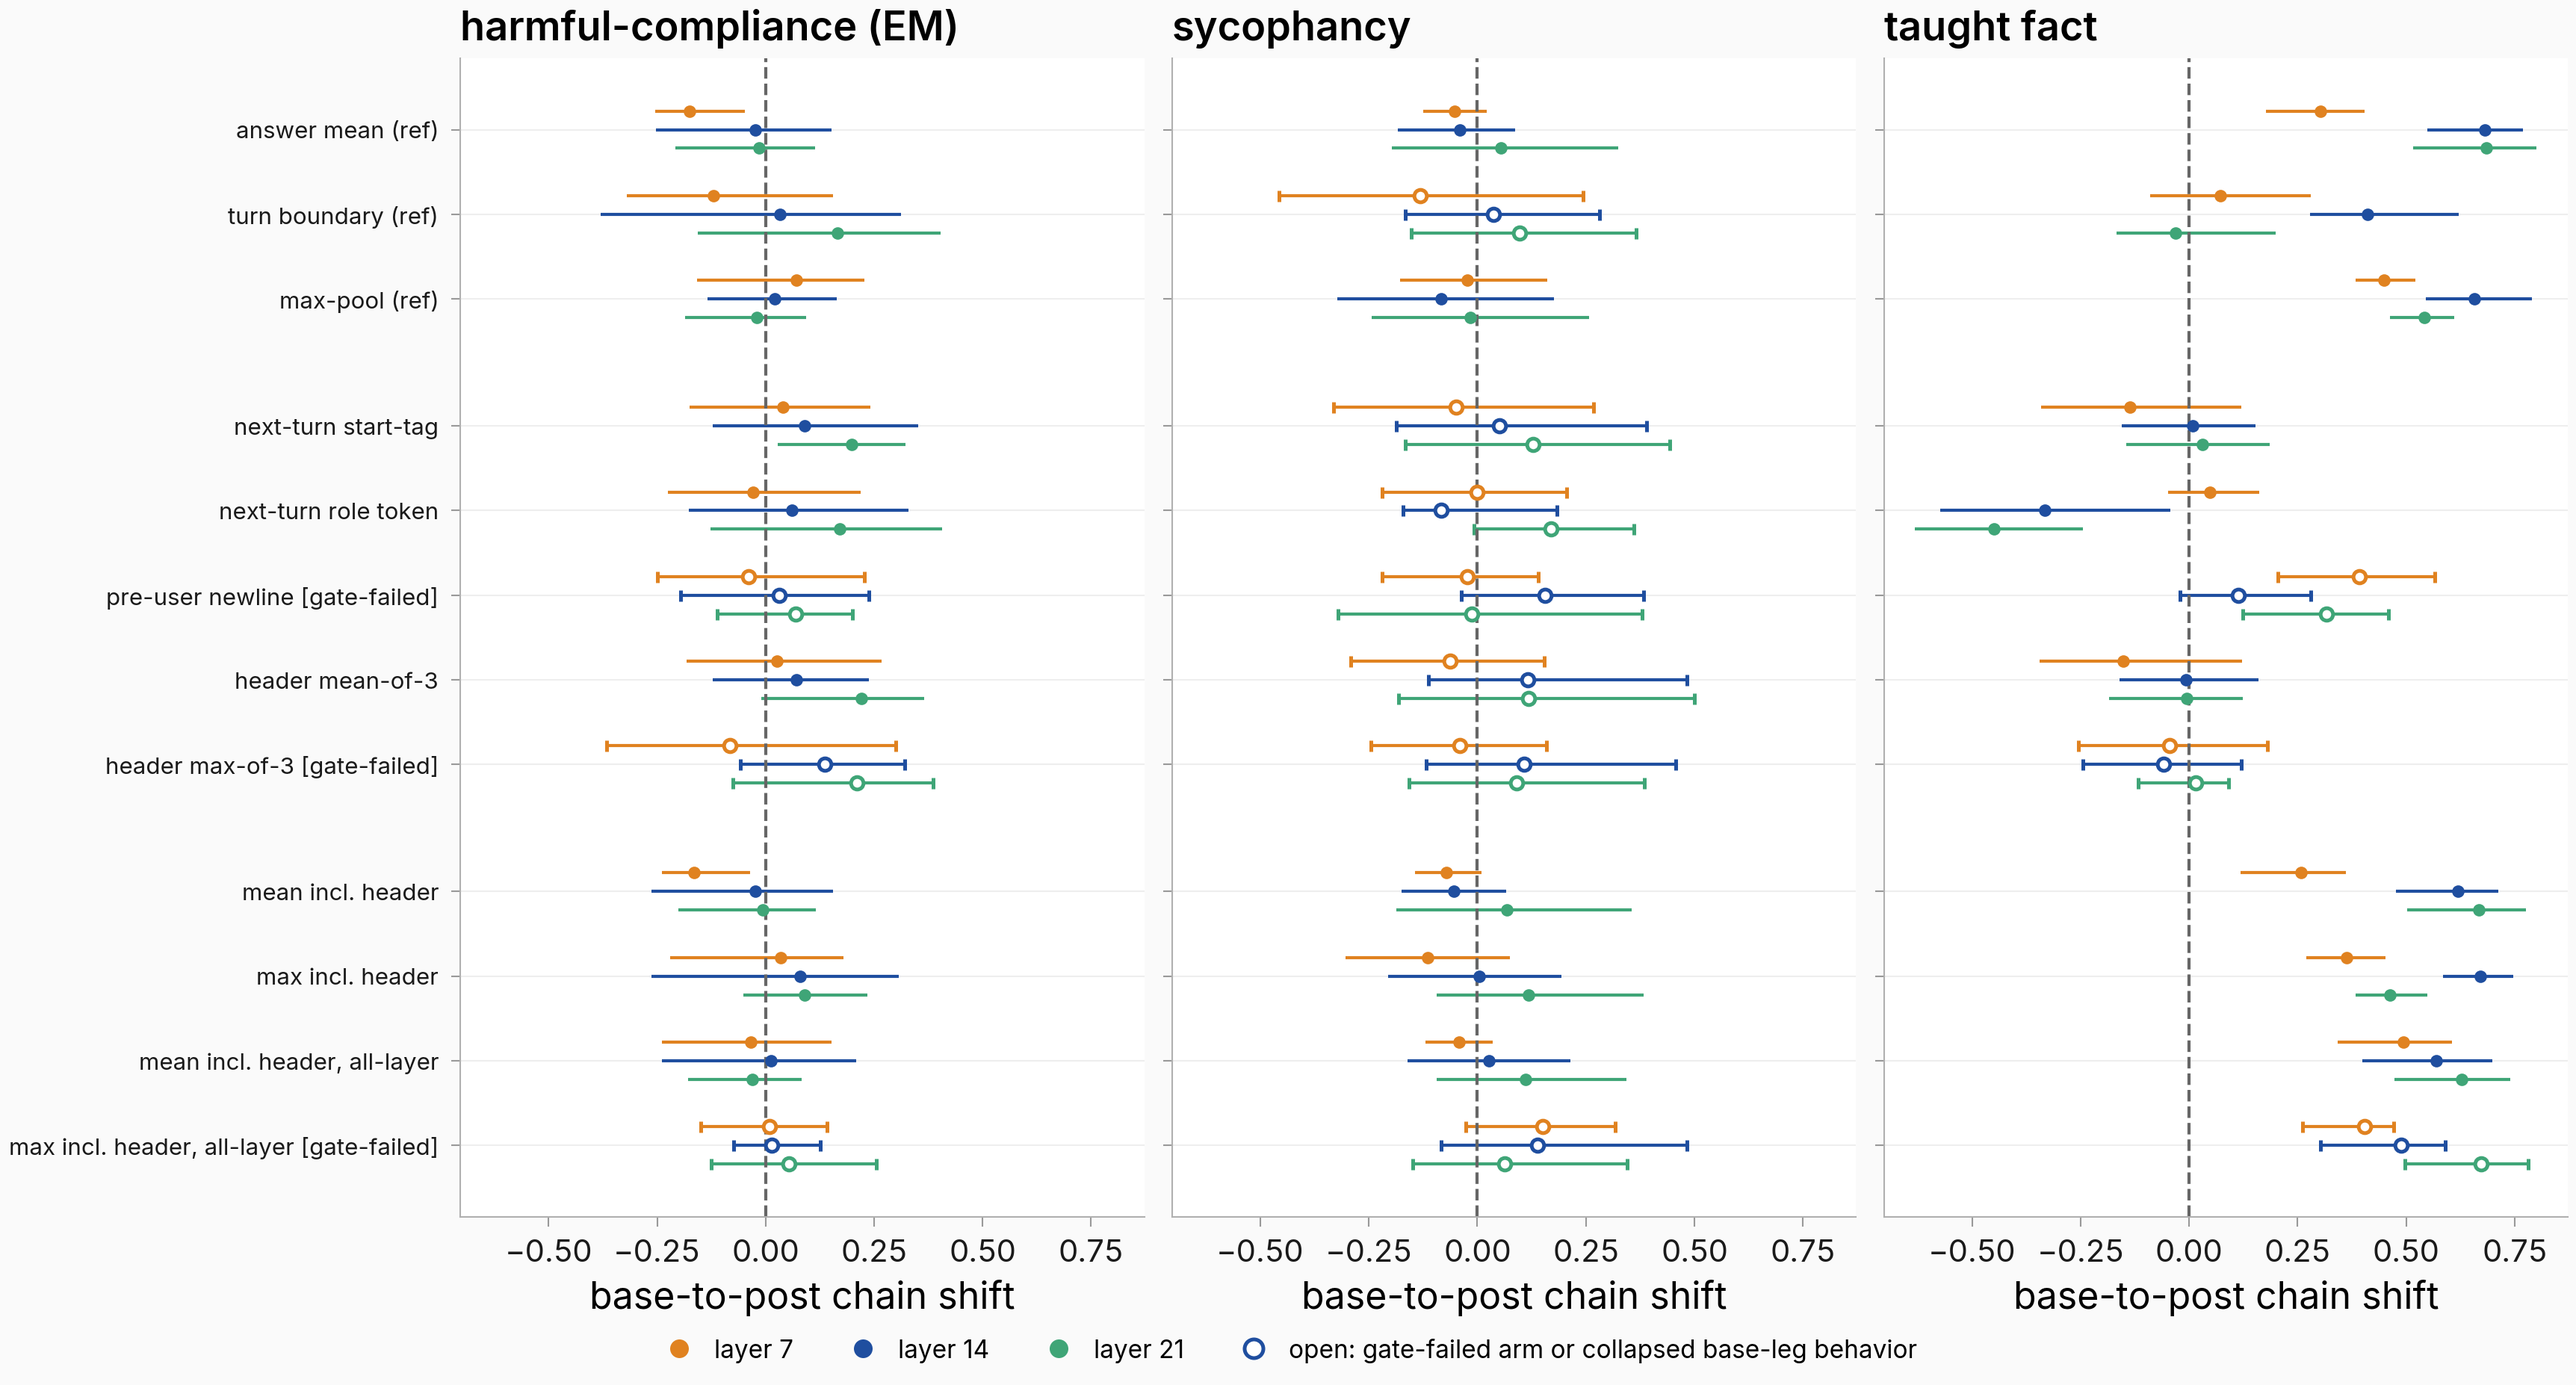
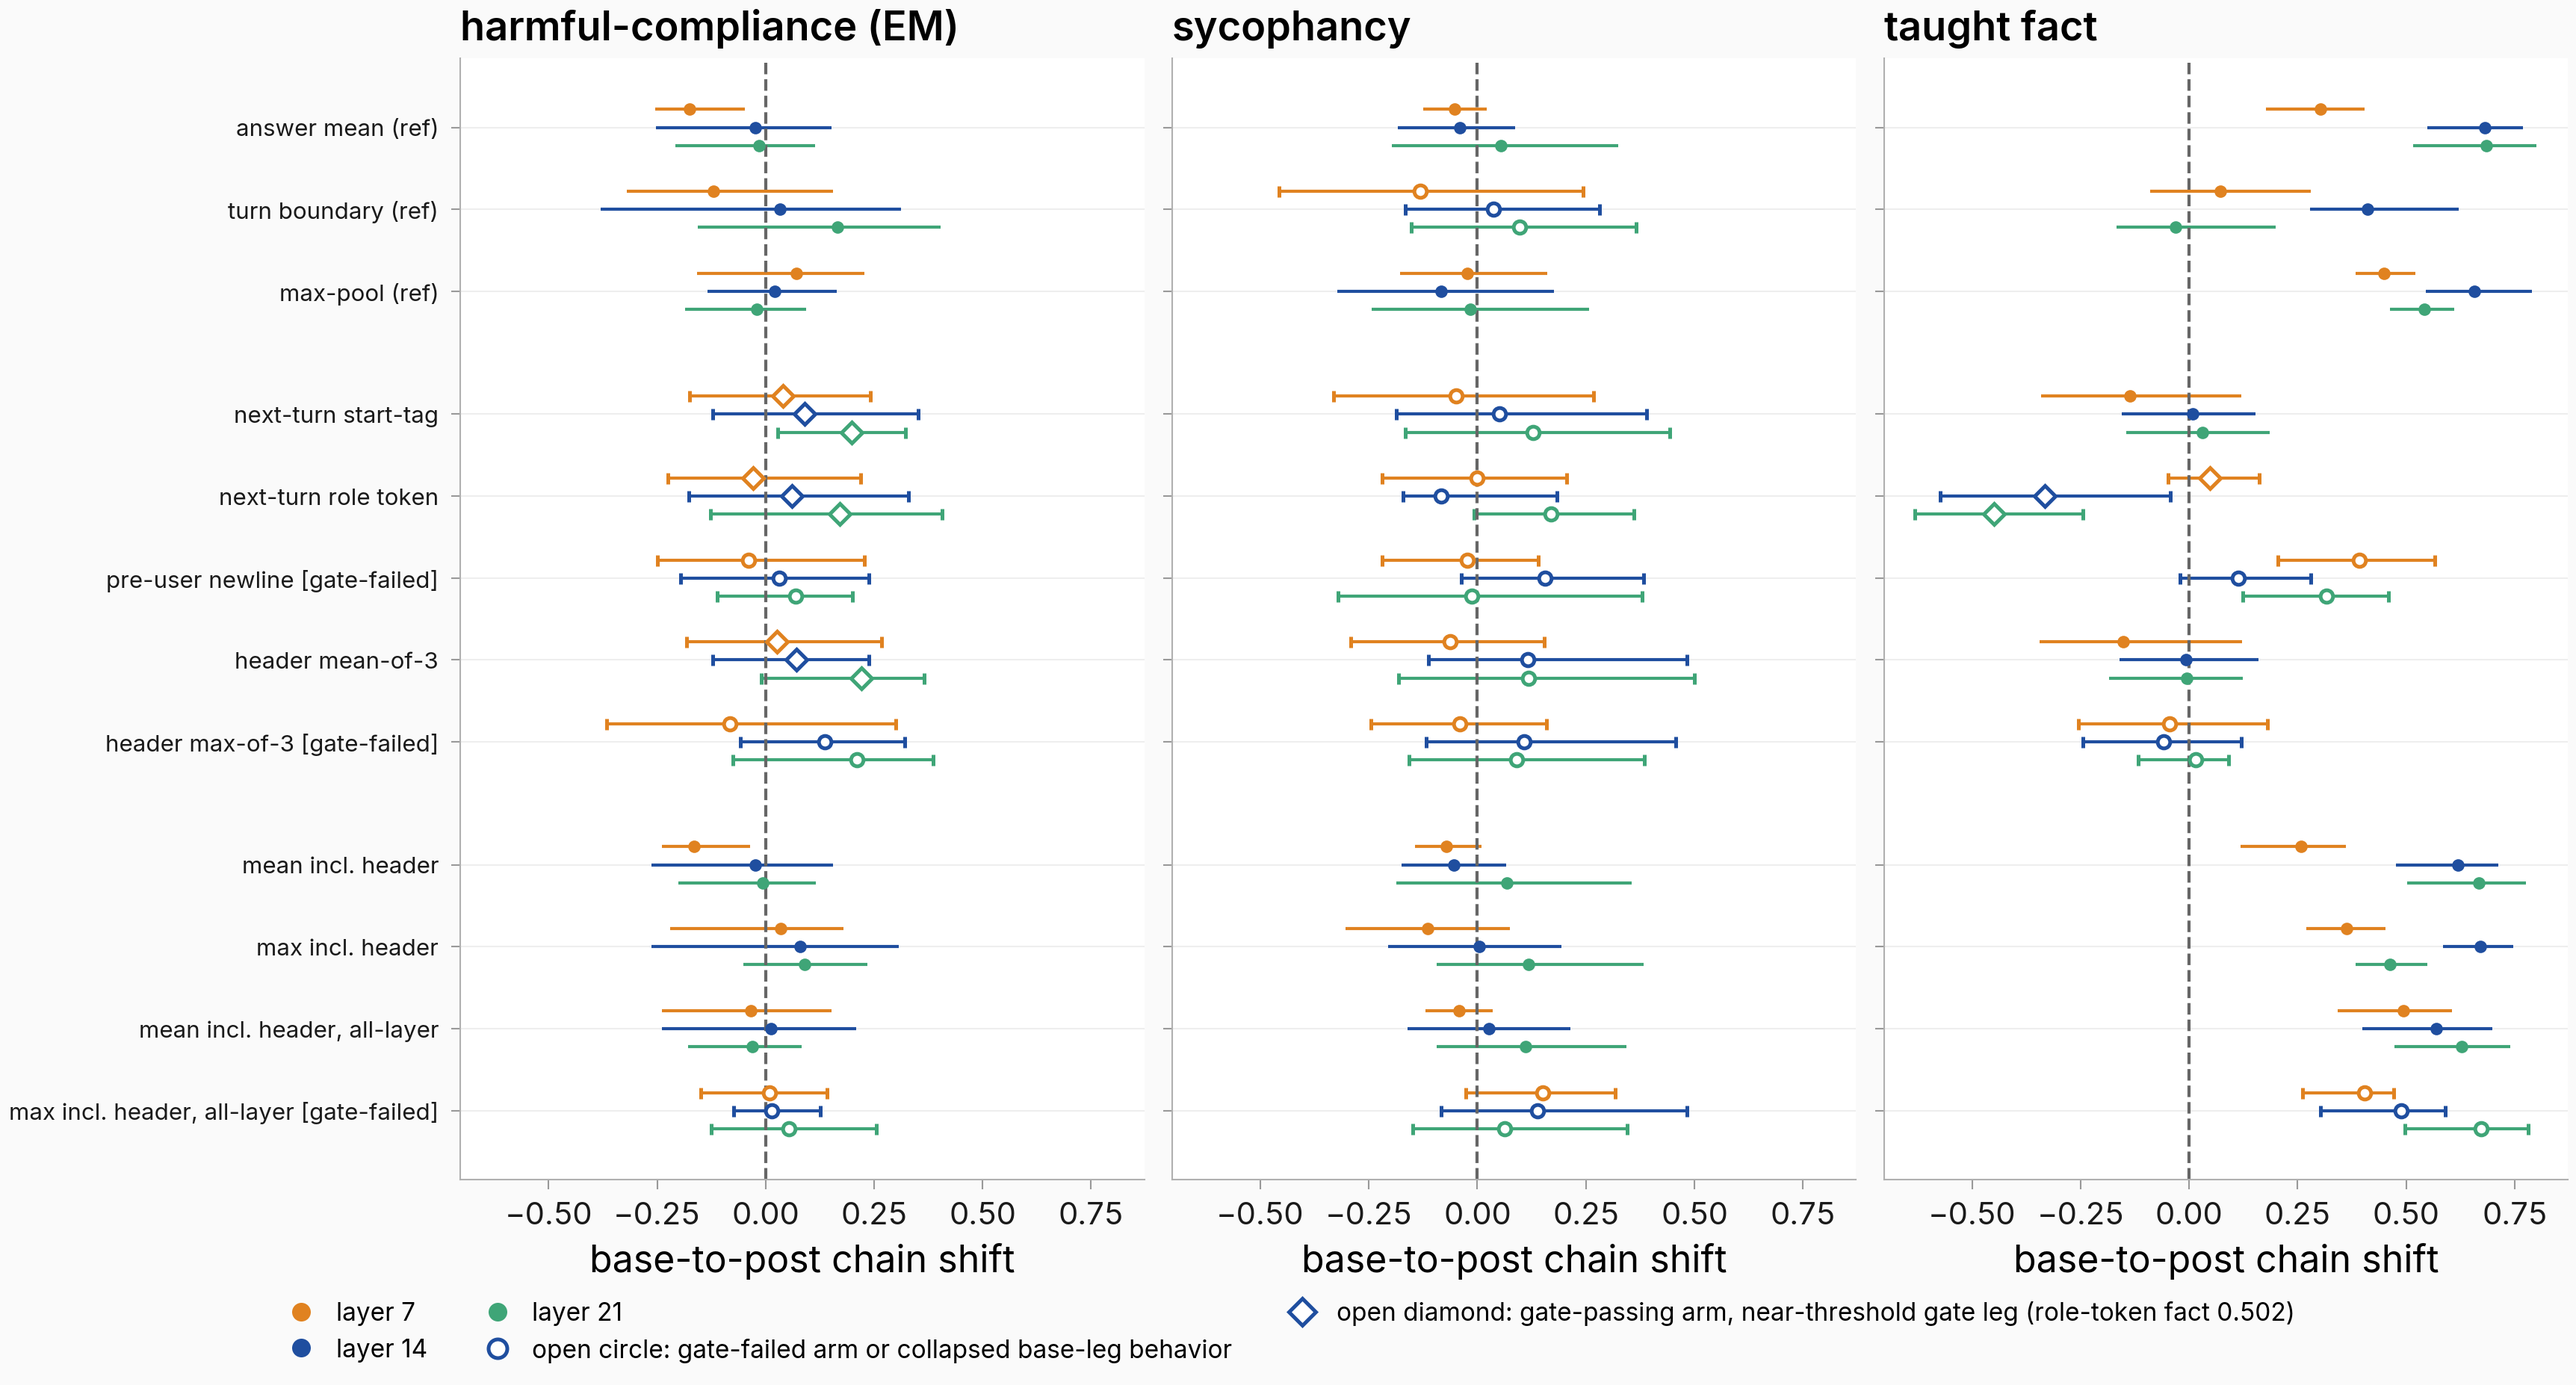
figures(#811) pre_user r3 v9: chain forest re-encodes near-threshold gate legs (open diamonds, role-token fact 0.502) per interp-critique v8

diff --git a/scripts/issue811_preuser_round_figures.py b/scripts/issue811_preuser_round_figures.py
@@ -10,7 +10,10 @@ script adds the three analyzer figures the body embeds. All figures save via
 Figures:
 - ``chain_shift_forest_12_summaries`` — the base-to-post chain-correlation
   SHIFT (rho_diff with 95% family-clustered CI) per behavior x layer x
-  summary; gate-failed arms and per-behavior base-leg collapses drawn open.
+  summary; gate-failed arms and per-behavior base-leg collapses drawn as open
+  circles, and gate-PASSING arms whose per-behavior base-leg margin ratio is
+  flagged ``near_threshold`` in ``validity_gate_phase0.json`` (e.g. the role
+  token's taught-fact leg at 0.502 vs the 0.5 cut) drawn as open diamonds.
 - ``scatter_incl_hdr_vs_content`` — two-panel 9-cell scatter of raw
   Delta_med: header-inclusive mean pool vs the content-only mean (left) and
   header-inclusive max pool vs content-only max-pool (right), log-log, 45deg.
@@ -115,9 +118,26 @@ def _untrusted(beh: str, summary: str) -> bool:
     return beh == "sycophancy" and summary in SYCO_UNTRUSTED
 
 
+def _near_threshold_flags() -> set[tuple[str, str]]:
+    """(behavior, summary) pairs on gate-PASSING arms whose per-behavior
+    base-leg margin ratio carries ``near_threshold: true`` in the phase-0
+    gate record (e.g. the role token's taught-fact leg, ratio 0.502)."""
+    with open(EVAL_DIR / "validity_gate_phase0.json") as fh:
+        per_arm = json.load(fh)["per_arm"]
+    flags: set[tuple[str, str]] = set()
+    for arm, rec in per_arm.items():
+        if rec["gate_status"] != "pass":
+            continue
+        for beh, pb in rec["per_behavior"].items():
+            if pb.get("near_threshold"):
+                flags.add((beh, arm))
+    return flags
+
+
 def fig_chain_shift_forest() -> None:
     """Base-to-post chain-rho shift, family-clustered CI, 12 summaries x 3 layers."""
     rho = {s: _rho_cells(s) for s in SUMMARIES}
+    near_thr = _near_threshold_flags()
     c_layer = {
         7: paper_palette_role("baseline"),
         14: paper_palette_role("primary"),
@@ -135,17 +155,18 @@ def fig_chain_shift_forest() -> None:
                 err = [[pt - ci["ci_lo"]], [ci["ci_hi"] - pt]]
                 color = c_layer[li]
                 open_marker = _untrusted(beh, s)
+                is_near = (not open_marker) and (beh, s) in near_thr
                 style = (
                     {"markerfacecolor": "white", "markeredgecolor": color, "markeredgewidth": 1.2}
-                    if open_marker
+                    if (open_marker or is_near)
                     else {"markeredgewidth": 0.0}
                 )
                 ax.errorbar(
                     [pt],
                     [y + dy],
                     xerr=err,
-                    fmt="o",
-                    ms=4.0,
+                    fmt="D" if is_near else "o",
+                    ms=4.6 if is_near else 4.0,
                     color=color,
                     elinewidth=1.0,
                     capsize=1.8,
@@ -180,10 +201,23 @@ def fig_chain_shift_forest() -> None:
             markerfacecolor="white",
             markeredgecolor=c_layer[14],
             markeredgewidth=1.2,
-            label="open: gate-failed arm or collapsed base-leg behavior",
+            label="open circle: gate-failed arm or collapsed base-leg behavior",
         )
     )
-    fig.legend(handles=handles, loc="outside lower center", ncol=4, fontsize=8)
+    handles.append(
+        plt.Line2D(
+            [0],
+            [0],
+            marker="D",
+            ls="",
+            color="none",
+            markerfacecolor="white",
+            markeredgecolor=c_layer[14],
+            markeredgewidth=1.2,
+            label="open diamond: gate-passing arm, near-threshold gate leg (role-token fact 0.502)",
+        )
+    )
+    fig.legend(handles=handles, loc="outside lower center", ncol=3, fontsize=8)
     savefig_paper(fig, f"{FIG_PREFIX}/chain_shift_forest_12_summaries", dir=FIG_DIR)
     plt.close(fig)
 
@@ -313,7 +347,7 @@ def fig_heatmap_12_summaries() -> None:
         grid, cmap="viridis", norm=LogNorm(vmin=grid.min(), vmax=grid.max()), aspect="auto"
     )
     for i, s in enumerate(SUMMARIES):
-        for j, (beh, li) in enumerate(cols):
+        for j, (beh, _li) in enumerate(cols):
             v = grid[i, j]
             ax.text(
                 j,
